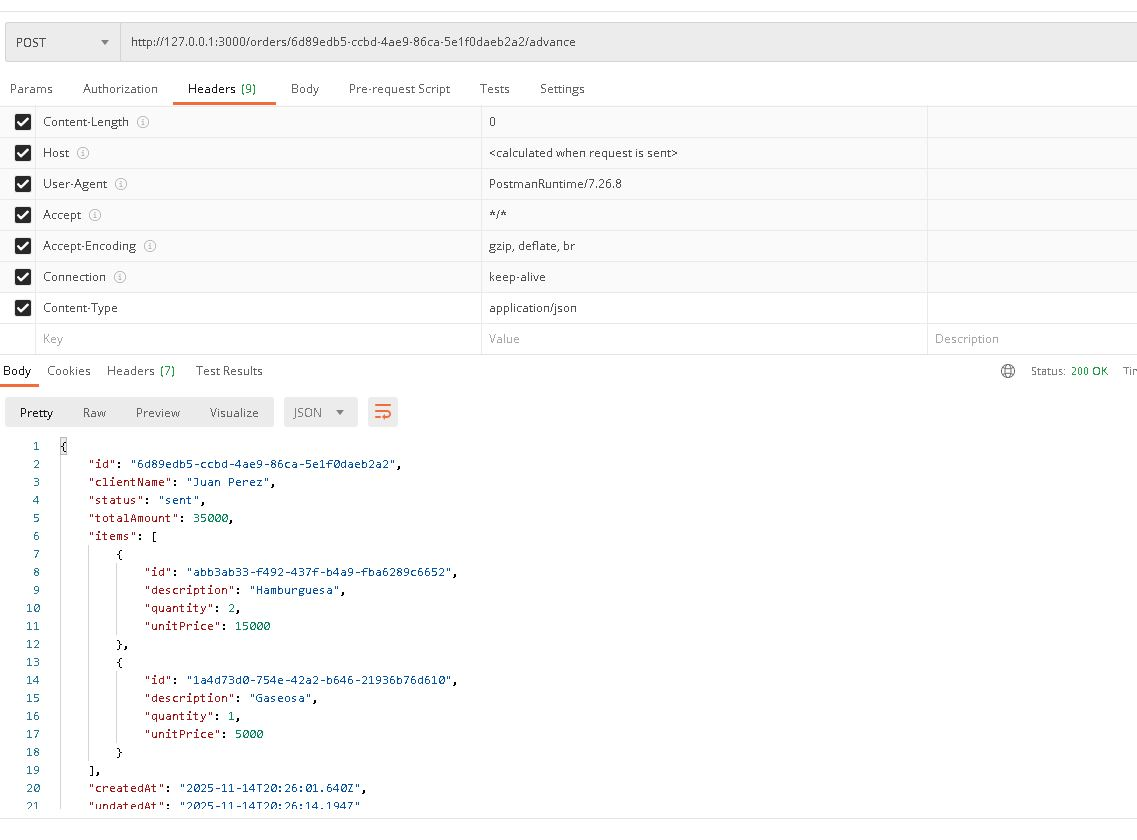
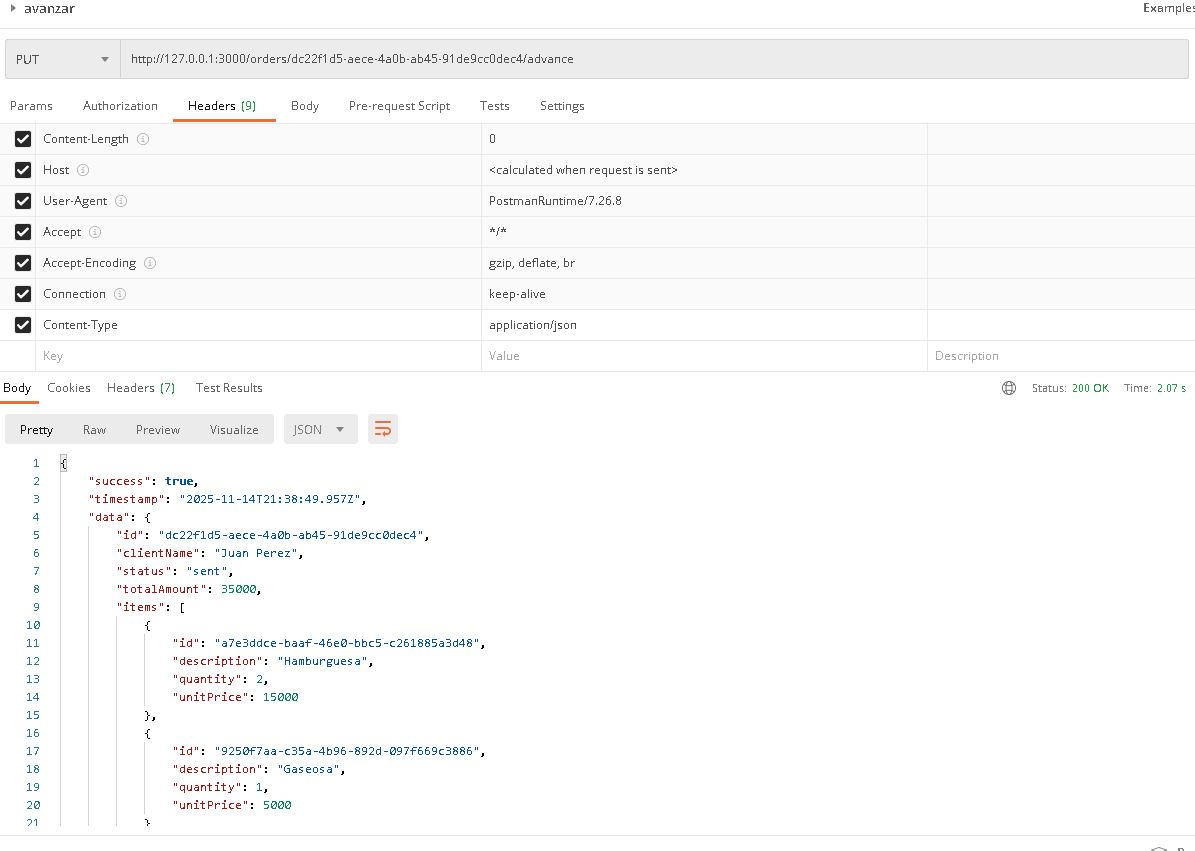
segundo commit

diff --git a/nestjs/src/orders/orders.controller.ts b/nestjs/src/orders/orders.controller.ts
@@ -1,4 +1,4 @@
-import { Controller, Get, Post, Body, Param, HttpCode, HttpStatus, ValidationPipe } from '@nestjs/common';
+import { Controller, Get, Post, Body, Param, HttpCode, HttpStatus, ValidationPipe, Put } from '@nestjs/common';
 import { OrdersService } from './orders.service';
 import { CreateOrderDto } from './dto/create-order.dto';
 import { OrderResponseDto } from './dto/order-response.dto';
@@ -26,7 +26,7 @@ export class OrdersController {
     return this.ordersService.create(createOrderDto);
   }
 
-  @Post(':id/advance')
+  @Put(':id/advance')
   @HttpCode(HttpStatus.OK)
   async advance(@Param('id') id: string): Promise<OrderResponseDto> {
     return this.ordersService.advanceStatus(id);
